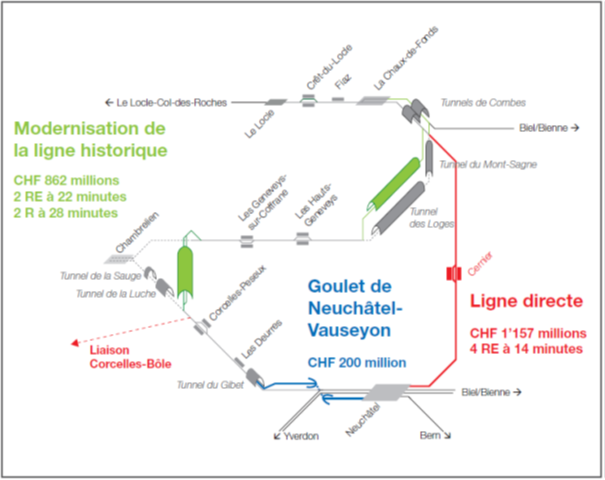
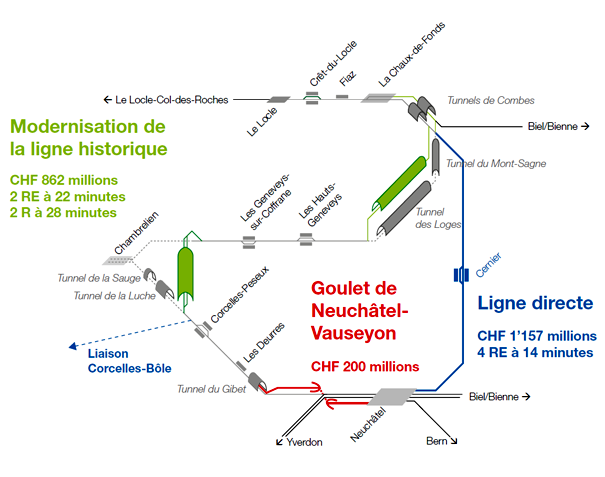
Update content

Changed region(s): [[0.0, 0.0, 1.0, 0.9979], [0.5653, 0.0881, 0.595, 0.1174], [0.238, 0.4403, 0.2678, 0.4696]]

diff --git a/src/pages/prodes2035.html b/src/pages/prodes2035.html
@@ -7,14 +7,20 @@ menu-prodes: active
 <section id="prodes2035">
 	<article>
 		<div class="wrapper clearfix">
-			<div class="col_6 bg-white bg-transparent">
-				<h1>PRODES 2035: Ligne ferroviaire directe entre Neuchâtel et La Chaux-de-Fonds: un projet d’importance régionale et nationale!</h1>
-                <p>Le Conseil fédéral a communiqué son message concernant l’étape d’aménagement 2035 (PRODES 2035) du réseau ferroviaire suisse. L’important travail de conviction mené par le Conseil d’État a permis d’obtenir un budget de quelque 850 millions de francs pour la modernisation de la ligne Neuchâtel – La Chaux-de-Fonds. Il s’agit d’une belle victoire d’étape. Le Conseil d’État neuchâtelois veut maintenant convaincre les Chambres fédérales de l’utilité de la ligne directe Neuchâtel-La Chaux-de-Fonds et d’ajouter 250 millions de francs pour réaliser ce projet encore plus performant. De son côté, il s’engage en faveur d’un cofinancement cantonal de 110 millions de francs.</p>
+			<div class="col_6 bg-blue bg-transparent">
+				<h1>PRODES 2035: Ligne ferroviaire directe entre Neuchâtel et La Chaux-de-Fonds: un projet d’importance régionale et nationale !</h1>
+                <p>La ligne ferroviaire Neuchâtel – La Chaux-de-Fonds permet de relier deux parties d’une <strong>même agglomération de 140’000 habitants</strong>. Sa fréquentation a fortement augmenté depuis 2016,
+                en particulier grâce à la mise à la cadence demi-heure. La Confédération prévoit un réel problème de capacité dès 2030. Ainsi le Conseil fédéral propose de moderniser la ligne en supprimant 
+                le rebroussement de Chambrelien et en introduisant quatre trains par heure (2 trains express avec un temps de parcours de 22 minutes et 2 trains régionaux assurant le trajet en 28 minutes). 
+                <strong>La Ligne directe permettrait d’offrir un train rapide à la cadence au quart d’heure avec un temps de parcours de 14 minutes</strong>. La part modale des transports publics entre les Montagnes et 
+                le Littoral neuchâtelois doublerait en conséquence avec une nette amélioration de la rentabilité d’exploitation de la ligne. <strong>295 millions de francs : c’est la différence des coûts d’investissement 
+                entre la Ligne directe</strong> (1,023 milliard de francs plus 134 millions d’assainissement en 2021) <strong>et la modernisation de la ligne</strong> (862 millions de francs). Si l’on prend en compte les 200 millions de 
+                francs nécessaires pour la suppression à long terme du goulet de Neuchâtel-Vauseyon, la différence devient inférieure à 100 millions de francs.</p>
                 <p style="font-size:1.3em;"><a id="agenda_link" href="data/factsheet_ligne_directe_novembre_2017.pdf" target="_blank">Factsheet (fr) <img src="img/icon-links.svg"></a>&nbsp;&nbsp;&nbsp;&nbsp;&nbsp;&nbsp;<a id="agenda_link" href="data/2017_Faktenblatt_Direkte Linie.pdf" target="_blank">Faktenblatt (de) <img src="img/icon-links.svg"></a></p>
 			</div>
 		</div>
 	</article>
-     <article class="bg-blue bg-transparent" id="carte-prodes2035">
+     <article class="bg-white" id="carte-prodes2035">
 		<a class="anchor"></a>
 		<div class="wrapper clearfix">
 			<div class="col_6 no-padding">
@@ -22,43 +28,46 @@ menu-prodes: active
 			</div>
 			<div class="col_6">
 				<h2>La ligne directe</h2>
-				<p>La ligne directe est indiscutablement plus performante et plus rentable (voir comparatif ci-dessous).
-Réaliser la ligne directe entre Neuchâtel et La Chaux-de-Fonds, c’est dynamiser les transports publics dans l’Arc jurassien et le canton de Neuchâtel en particulier, en doublant sa part modale. C’est aussi résoudre le problème du goulet de Neuchâtel-Vauseyon au bénéfice du trafic sur la ligne du Pied du Jura. C’est finalement l’opportunité de transformer tout un canton, en lui donnant des conditions-cadre socio-économiques dignes du 21ème siècle, lui permettant de développer encore son importante contribution à l’excédent de la balance commerciale de la Suisse.</p>
+				<p>La Ligne directe est plus performante et plus rentable (voir comparatif ci-dessous).</p>
+                    <p>Réaliser la Ligne directe entre Neuchâtel et La Chaux-de-Fonds, c’est dynamiser les transports publics dans l’Arc jurassien et le canton de Neuchâtel en particulier, en doublant sa part modale.
+                    C’est aussi résoudre le problème du goulet de Neuchâtel-Vauseyon au bénéfice du trafic sur la ligne du Pied du Jura. 
+                    C’est finalement l’opportunité de transformer tout un canton, en lui donnant des conditions-cadre socio-économiques dignes du 21ème siècle,
+                    lui permettant de développer encore son importante contribution à l’excédent de la balance commerciale de la Suisse.</p>
 			</div>
 		</div>
 	</article>
-	<article class="bg-white bg-transparent" id="urgence">
+	<article class="bg-blue bg-transparent" id="urgence">
 		<div class="wrapper clearfix">
                 <div class="col_12">
                     <h2>Projets ferroviaire sur la ligne Neuchâtel - La Chaux-de-Fonds</h2>
                     <table class="full-page-table">
                         <tr>
-                            <td><h3><strong>Modernisation de la ligne</strong></h3></td>
-                            <td><h3><strong>Ligne directe</strong></h3></td>
+                            <td><h3 style="text-align:center;"><strong>Modernisation de la ligne</strong></h3></td>
+                            <td><h3 style="text-align:center;"><strong>Ligne directe</strong></h3></td>
                         </tr>
                         <tr>
                         <td>
-                            <h5><strong>6'</strong></h5>
+                            <h5><strong>22'</strong></h5>
                             <div class="col_stretched full-page-table-centered">
-                                <p>Gain de temps avec la liaison la plus rapide</p>
+                                <p>Temps de parcours pour les liaisons les plus rapides (gain de 6')</p>
                             </div>
                         </td>
                         <td>
                             <h5><strong>14'</strong></h5>
                             <div class="col_stretched full-page-table-centered">
-                                <p>Gain de temps pour toutes les liaisons</p>
+                                <p>Temps de parcours pour toutes les liaisons (gain de 14')</p>
                             </div>
                         </td>
                         </tr>
                         <tr>
                         <td>
-                            <h5><strong>2x</strong></h5>
+                            <h5><strong>2</strong></h5>
                             <div class="col_stretched full-page-table-centered">
                                 <p class="full-page-table-centered">Nombre de RER par heure</p>
                             </div>
                         </td>
                         <td>
-                            <h5><strong>4x</strong></h5>
+                            <h5><strong>4</strong></h5>
                             <div class="col_stretched full-page-table-centered">
                                 <p>Nombre de RER par heure</p>
                             </div>
@@ -68,41 +77,27 @@ Réaliser la ligne directe entre Neuchâtel et La Chaux-de-Fonds, c’est dynami
                         <td>
                             <h5><strong><img src="img/icon-cross.svg"></strong></h5>
                             <div class="col_stretched full-page-table-centered">
-                                <p>Aucune résolution du problème du goulet de Neuchâtel-Vauseyon</p>
+                                <p>Pas d’augmentation de capacité Est-Ouest sur la ligne du pied du Jura</p>
                             </div>
                         </td>
                         <td>
                             <h5><strong><img src="img/icon-vu.svg"></strong></h5>
                             <div class="col_stretched full-page-table-centered">
-                                <p>Résolution du problème du goulet de Neuchâtel-Vauseyon (200 millions d’économie)</p>
+                                <p>Augmentation de capacité est-ouest sur la ligne du pied du jura (200 millions d’économie potentielle)</p>
                             </div>
                         </td>
                         </tr>
                         <tr>
                         <td>
-                            <h5><strong>-</strong></h5>
+                            <h5>Augmentation</h5>
                             <div class="col_stretched full-page-table-centered">
-                                <p>Aucune augmentation significative de la part modale des transports publics</p>
+                                <p>de la part modale des transports publics</p>
                             </div>
                         </td>
                         <td>
-                            <h5><strong>2x</strong></h5>
+                            <h5>Doublement</h5>
                             <div class="col_stretched full-page-table-centered">
-                                <p>Doublement de la part modale des transports publics</p>
-                            </div>
-                        </td>
-                        </tr>
-                        <tr>
-                        <td>
-                            <h5>Conseil Fédéral</h5>
-                            <div class="col_stretched full-page-table-centered">
-                                <p>Soutient le projet</p>
-                            </div>
-                        </td>
-                        <td>
-                            <h5>CTSO<br>Ouestrail<br>UTP<br>Région Capitale Suisse<br>Comité Lötschberg<br>CFF</h5>
-                            <div class="col_stretched full-page-table-centered">
-                                <p>Soutiennent le projet</p>
+                                <p>de la part modale des transports publics</p>
                             </div>
                         </td>
                         </tr>
@@ -120,18 +115,32 @@ Réaliser la ligne directe entre Neuchâtel et La Chaux-de-Fonds, c’est dynami
                             </div>
                         </td>
                         </tr>
+                        <tr>
+                        <td>
+                            <h5>862 millions de francs</h5>
+                            <div class="col_stretched full-page-table-centered">
+                                <p>Coût total de l'infrastructure</p>
+                            </div>
+                        </td>
+                        <td>
+                            <h5>1'157 millions de francs</h5>
+                            <div class="col_stretched full-page-table-centered">
+                                <p>Coût total de l'infrastructure</p>
+                            </div>
+                        </td>
+                        </tr>
                     </table>
                 </div>
 		</div>
 	</article>
-	<article class="bg-blue" id="prodes2035-message">
+	<article class="bg-white" id="prodes2035-message">
 		<div class="wrapper clearfix">
 			<div class="col_12">
 				<h2>Au vu des avantages aussi bien régionaux que nationaux, il est demandé aux Chambres fédérales d’intégrer la ligne directe entre Neuchâtel et La Chaux-de-Fonds dans le cadre de PRODES 2035</h2>
 			</div>
 		</div>
 	</article>
-	<article class="bg-white" id="calendrier">
+	<article class="bg-blue" id="calendrier">
 		<div class="wrapper clearfix">
 			<div class="col_12">
 				<h2>Agenda publique</h2>

diff --git a/src/pages/index.html b/src/pages/index.html
@@ -9,9 +9,9 @@ menu-index: active
 	<div class="overlay">
 		<div class="wrapper">
 			<div class="col_7">
-                <h1>PRODES 2035 – UNE BELLE VICTOIRE D’ÉTAPE POUR UNE LIAISON PERFORMANTE NEUCHÂTEL – LA CHAUX-DE-FONDS</h1>
-                <p><strong>Le Conseil fédéral a communiqué son message concernant l’étape d’aménagement 2035 (PRODES 2035) du réseau ferroviaire suisse. L’important travail de conviction mené par le Conseil d’État a permis d’obtenir un budget de quelque 850 millions de francs pour la modernisation de la ligne Neuchâtel – La Chaux-de-Fonds. Il s’agit d’une belle victoire d’étape. Le Conseil d’État neuchâtelois veut maintenant convaincre les Chambres fédérales de l’utilité de la ligne directe Neuchâtel-La Chaux-de-Fonds et d’ajouter 250 millions de francs pour réaliser ce projet encore plus performant. De son côté, il s’engage en faveur d’un cofinancement cantonal de 110 millions de francs.</strong></p>
-                    <p style="font-size:1.3em;"><a id="agenda_link" href="https://www.ne.ch/medias/Pages/20181031Prodes2035unebellevictoiredetape.aspx" target="_blank">message du Conseil d’État neuchâtelois <img src="img/icon-links.svg"></a></p>
+                <h1>PRODES 2035 – LIGNE DIRECTE ENTRE NEUCHÂTEL ET LA CHAUX-DE-FONDS : UN PROJET FERROVIAIRE D’IMPORTANCE REGIONALE ET NATIONALE</h1>
+                <p><strong>La ligne ferroviaire reliant Neuchâtel à La Chaux-de-Fonds permet de relier deux parties d’une même agglomération de 140'000 habitants. La fréquentation de la ligne, dont le tracé date de 1860, a fortement augmenté depuis 2016. La Confédération y prévoit un réel problème de capacité dès 2030. A cet effet, le Conseil fédéral soutient le projet de modernisation de la ligne historique pour 862 millions de francs. Cela permettrait la suppression du rebroussement de Chambrelien et l’introduction de deux trains express (22 minutes) aux actuels 2 trains régionaux (28 minutes). Le canton de Neuchâtel demande qu’une nouvelle Ligne directe soit réalisée, pour 295 millions supplémentaires. Celle-ci garantirait 4 trains express en 14 minutes et résoudrait le  goulet de Vauseyon (200 millions de coûts à terme).</strong></p>
+                <!--<p style="font-size:1.3em;"><a id="agenda_link" href="https://www.ne.ch/medias/Pages/20181031Prodes2035unebellevictoiredetape.aspx" target="_blank">message du Conseil d’État neuchâtelois <img src="img/icon-links.svg"></a></p>-->
 			</div>
             <a href="#" id="btn-decouvrir" class="btn-decouvrir"><strong>Découvrir</strong><br />la carte interactive</a>
 		</div>
